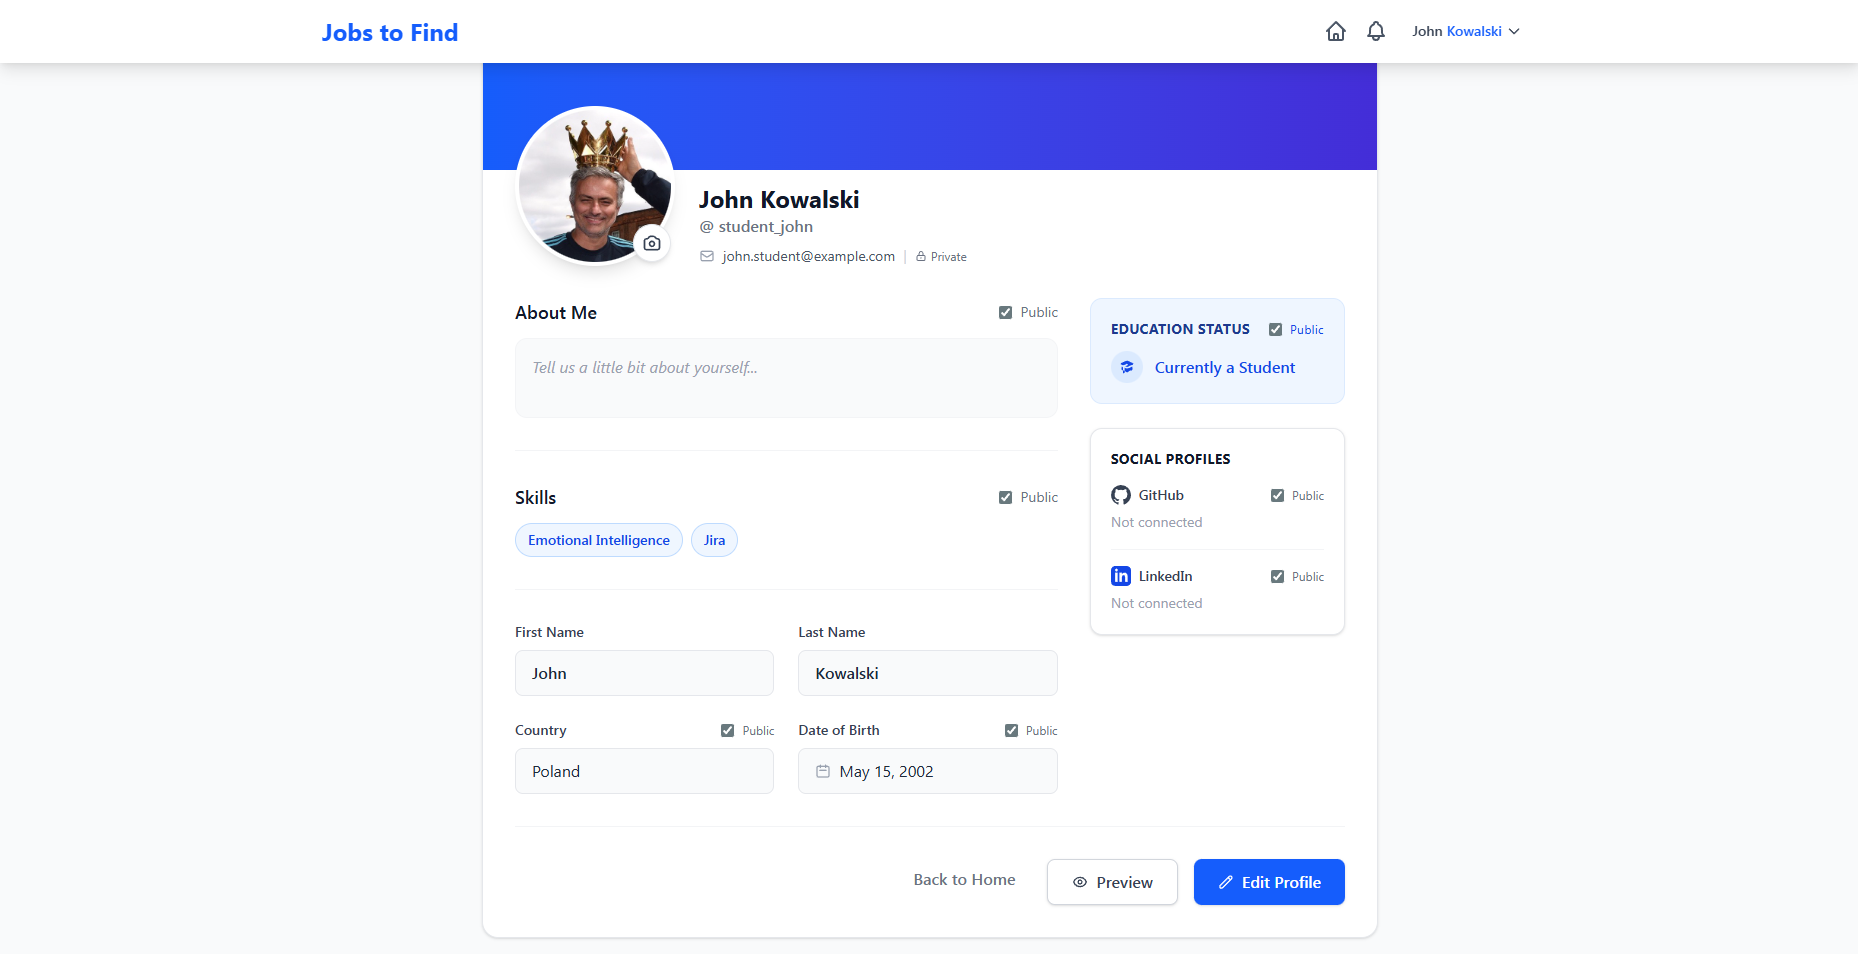
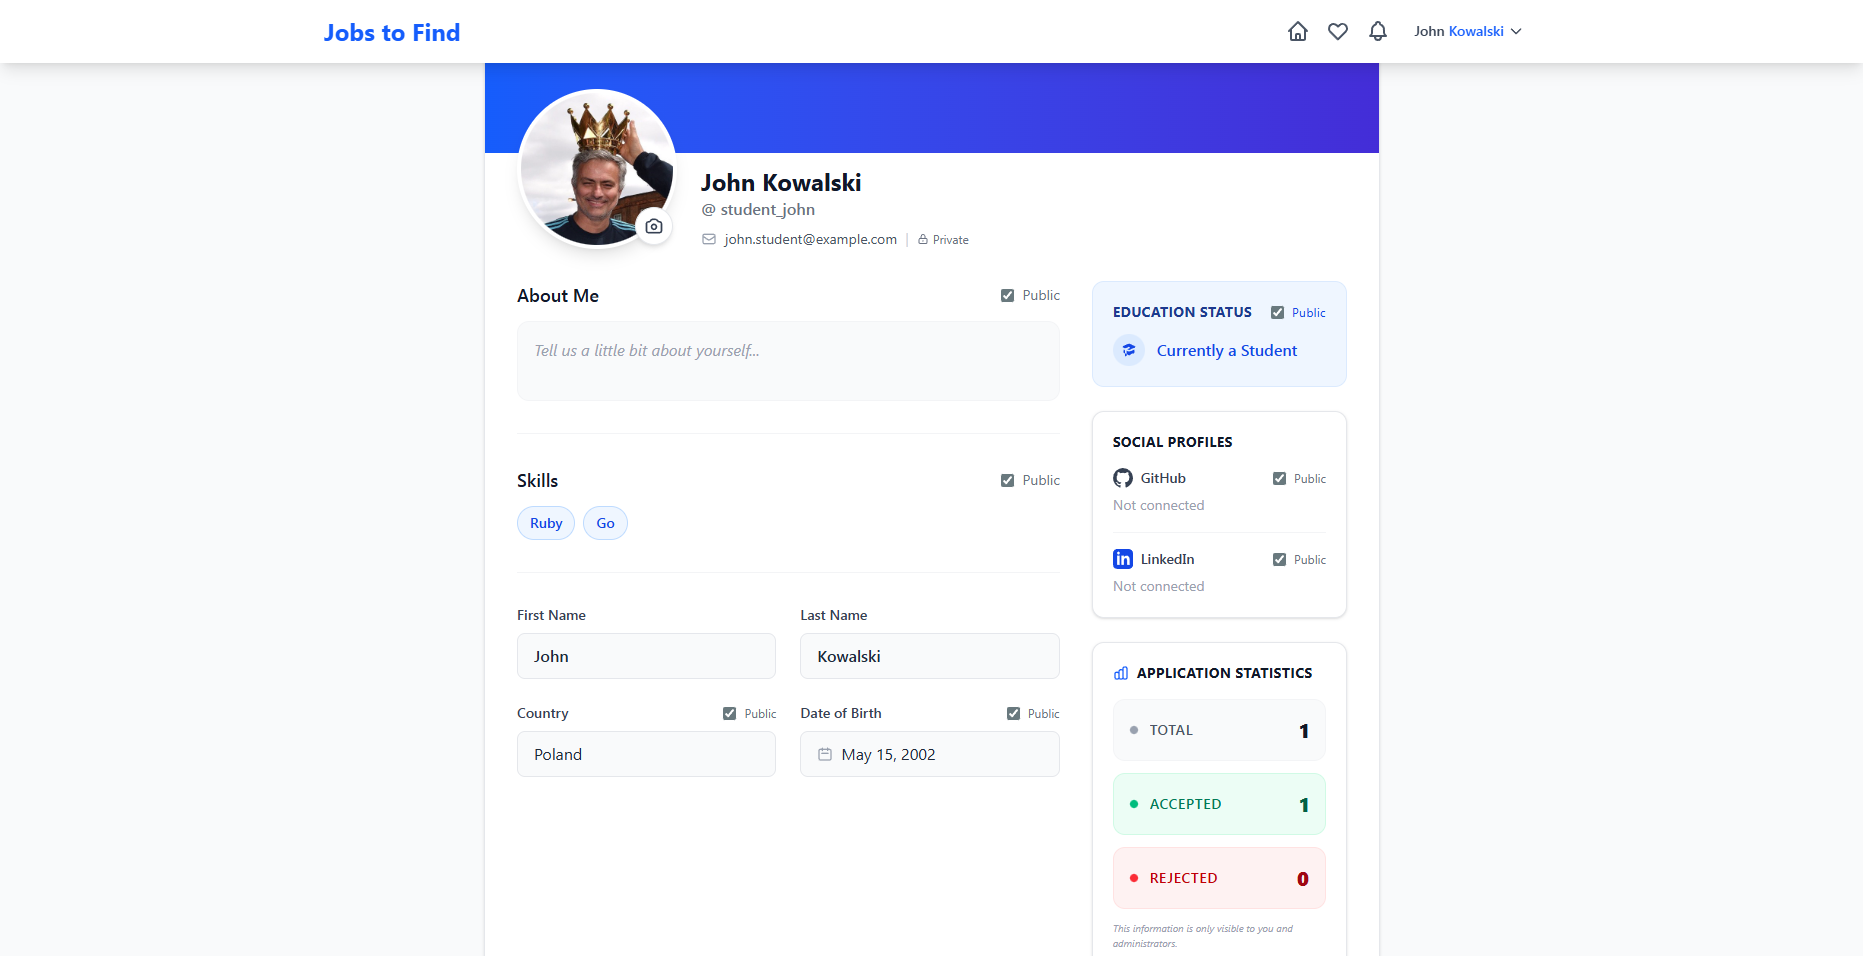
added statistics of apps in profile view

diff --git a/resources/views/auth/profile.blade.php b/resources/views/auth/profile.blade.php
@@ -429,6 +429,42 @@
                                 </div>
                             </div>
                             @endif
+
+                            @if(($isOwner || $isAdminView) && $user->account_type === 'job_seeker')
+                            <div class="bg-white rounded-xl p-5 border border-gray-200 shadow-sm mt-6">
+                                <h3 class="text-sm font-bold text-gray-900 uppercase tracking-wide mb-4 flex items-center">
+                                    <svg class="w-4 h-4 mr-2 text-blue-600" fill="none" stroke="currentColor" viewBox="0 0 24 24"><path stroke-linecap="round" stroke-linejoin="round" stroke-width="2" d="M9 19v-6a2 2 0 00-2-2H5a2 2 0 00-2 2v6a2 2 0 002 2h2a2 2 0 002-2zm0 0V9a2 2 0 012-2h2a2 2 0 012 2v10m-6 0a2 2 0 002 2h2a2 2 0 002-2m0 0V5a2 2 0 012-2h2a2 2 0 012 2v14a2 2 0 01-2 2h-2a2 2 0 01-2-2z"></path></svg>
+                                    Application Statistics
+                                </h3>
+                                
+                                <div class="space-y-3">
+                                    <div class="flex items-center justify-between bg-gray-50 p-4 rounded-xl border border-gray-100 min-w-0 transition-all hover:bg-gray-100/50">
+                                        <div class="flex items-center min-w-0">
+                                            <div class="w-2 h-2 rounded-full bg-gray-400 mr-3 shrink-0"></div>
+                                            <p class="text-sm font-semibold text-gray-600 uppercase tracking-wider truncate">Total</p>
+                                        </div>
+                                        <p class="text-xl font-black text-gray-900 ml-4">{{ $applicationStats['total'] ?? 0 }}</p>
+                                    </div>
+
+                                    <div class="flex items-center justify-between bg-emerald-50 p-4 rounded-xl border border-emerald-100 min-w-0 transition-all hover:bg-emerald-100/50">
+                                        <div class="flex items-center min-w-0">
+                                            <div class="w-2 h-2 rounded-full bg-emerald-500 mr-3 shrink-0"></div>
+                                            <p class="text-sm font-semibold text-emerald-700 uppercase tracking-wider truncate">Accepted</p>
+                                        </div>
+                                        <p class="text-xl font-black text-emerald-800 ml-4">{{ $applicationStats['accepted'] ?? 0 }}</p>
+                                    </div>
+
+                                    <div class="flex items-center justify-between bg-red-50 p-4 rounded-xl border border-red-100 min-w-0 transition-all hover:bg-red-100/50">
+                                        <div class="flex items-center min-w-0">
+                                            <div class="w-2 h-2 rounded-full bg-red-500 mr-3 shrink-0"></div>
+                                            <p class="text-sm font-semibold text-red-700 uppercase tracking-wider truncate">Rejected</p>
+                                        </div>
+                                        <p class="text-xl font-black text-red-800 ml-4">{{ $applicationStats['rejected'] ?? 0 }}</p>
+                                    </div>
+                                </div>
+                                <p class="mt-3 text-[10px] text-gray-400 italic">This information is only visible to you and administrators.</p>
+                            </div>
+                            @endif
                             
                             @if($user->account_type === 'job_seeker' && $user->cv_path)
                                 @if($shouldShow('cv_path'))

diff --git a/routes/web.php b/routes/web.php
@@ -65,10 +65,19 @@ Route::get('/privacy', function () {
 })->name('privacy');
 
 Route::get('/profile', function () {
+    $user = Auth::user();
     $availableSkills = \App\Models\Skill::orderBy('name')->get();
+
+    $stats = [
+        'total' => $user->applications()->count(),
+        'accepted' => $user->applications()->where('status', 'accepted')->count(),
+        'rejected' => $user->applications()->where('status', 'rejected')->count(),
+    ];
+
     return view('auth.profile', [
-        'user' => Auth::user(),
-        'availableSkills' => $availableSkills
+        'user' => $user,
+        'availableSkills' => $availableSkills,
+        'applicationStats' => $stats
     ]);
 })->middleware('auth')->name('profile');
 

diff --git a/app/Http/Controllers/UserController.php b/app/Http/Controllers/UserController.php
@@ -40,6 +40,12 @@ class UserController extends Controller
 
         $availableSkills = \App\Models\Skill::orderBy('name')->get();
 
-        return view('auth.profile', compact('user', 'availableSkills'));
+        $applicationStats = [
+            'total' => $user->applications()->count(),
+            'accepted' => $user->applications()->where('status', 'accepted')->count(),
+            'rejected' => $user->applications()->where('status', 'rejected')->count(),
+        ];
+
+        return view('auth.profile', compact('user', 'availableSkills', 'applicationStats'));
     }
 }

diff --git a/app/Models/User.php b/app/Models/User.php
@@ -82,4 +82,9 @@ class User extends Authenticatable
     {
         return $this->privacy_settings[$field] ?? true;
     }
+
+    public function applications(): HasMany
+    {
+        return $this->hasMany(Application::class);
+    }
 }
